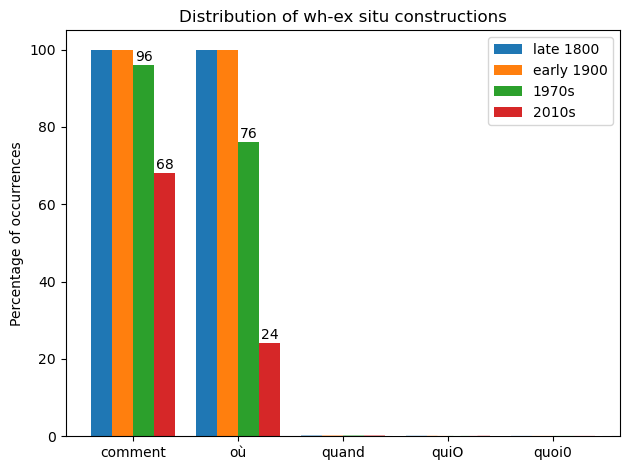
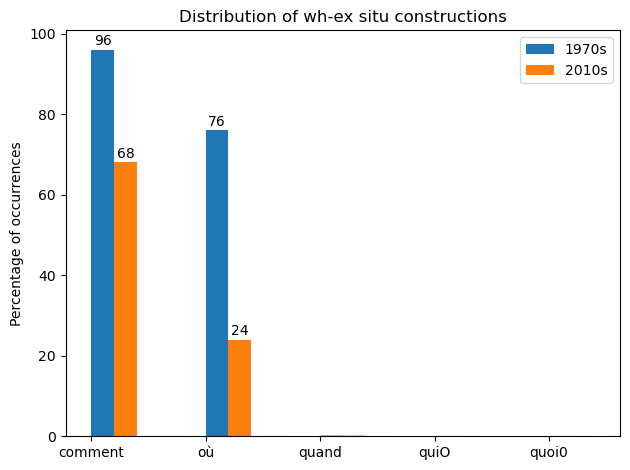
Uploads images

diff --git a/slides/résultats.tex b/slides/résultats.tex
@@ -11,7 +11,30 @@
 \begin{document}
 %%=-=-=-=-=-=-=-=-=-=-=-=-=-=-=-=-=-=-=-=-=-=-=-=-=-=-=-=-=-=-=-=-=-=-=-=-=-=-=-=
 %   FRAME START   -=-=-=-=-=-=-=-=-=-=-=-=-=-=-=-=-=-=-=-=-=-=-=-=-=-=-=-=-=-=-=
-\begin{frame}[c]{The data}
+\begin{frame}[c]{Overview of the data}
+
+\textbf{\textsc{our raw data}}
+
+\begin{table}[H]
+    \centering
+    \small
+    \begin{adjustbox}
+        \begin{tabular}{r|r|r}
+        % \hline
+        ESLO 1  & ESLO 2 & total \\
+        \hline
+        2376 & 1261 & 3637 \\
+        %\hline
+        \hline
+        \end{tabular}
+    \end{adjustbox}
+\caption{\label{tab:samp3}Raw data (ex situ and in situ combined).}
+\end{table}
+  
+\end{frame}
+%   FRAME END   --==-=-=-=-=-=-=-=-=-=-=-=-=-=-=-=-=-=-=-=-=-=-=-=-=-=-=-=-=-=-=
+%   FRAME START   -=-=-=-=-=-=-=-=-=-=-=-=-=-=-=-=-=-=-=-=-=-=-=-=-=-=-=-=-=-=-=
+\begin{frame}[c]{Overview of the data}
 
 \textbf{\textsc{our raw data}}
 
@@ -37,7 +60,7 @@
 \end{frame}
 %   FRAME END   --==-=-=-=-=-=-=-=-=-=-=-=-=-=-=-=-=-=-=-=-=-=-=-=-=-=-=-=-=-=-=
 %   FRAME START   -=-=-=-=-=-=-=-=-=-=-=-=-=-=-=-=-=-=-=-=-=-=-=-=-=-=-=-=-=-=-=
-\begin{frame}[c]{The data}
+\begin{frame}[c]{Overview of the data}
 
 \textbf{\textsc{our raw data}}
 
@@ -63,7 +86,7 @@
 \end{frame}
 %   FRAME END   --==-=-=-=-=-=-=-=-=-=-=-=-=-=-=-=-=-=-=-=-=-=-=-=-=-=-=-=-=-=-=
 %   FRAME START   -=-=-=-=-=-=-=-=-=-=-=-=-=-=-=-=-=-=-=-=-=-=-=-=-=-=-=-=-=-=-=
-\begin{frame}[c]{The data}
+\begin{frame}[c]{Overview of the data}
 
 \textbf{\textsc{our raw data}}
 
@@ -124,16 +147,139 @@
   
 \end{frame}
 %   FRAME END   --==-=-=-=-=-=-=-=-=-=-=-=-=-=-=-=-=-=-=-=-=-=-=-=-=-=-=-=-=-=-=
+
 %   FRAME START   -=-=-=-=-=-=-=-=-=-=-=-=-=-=-=-=-=-=-=-=-=-=-=-=-=-=-=-=-=-=-=
-\begin{frame}[c]{French wh-interrogatives from 1870 to 2014}
+\begin{frame}[c]{The data: wh-in situ}
 
     \begin{center}
-        \textbf{How have French interrogatives evolved between 1970s and 2014?}
+       \includegraphics[width=10cm, height=6cm]{images/insituraw2.png} 
     \end{center}
   
 \end{frame}
 %   FRAME END   --==-=-=-=-=-=-=-=-=-=-=-=-=-=-=-=-=-=-=-=-=-=-=-=-=-=-=-=-=-=-=
+
 %   FRAME START   -=-=-=-=-=-=-=-=-=-=-=-=-=-=-=-=-=-=-=-=-=-=-=-=-=-=-=-=-=-=-=
+\begin{frame}{The classification}
+
+    \transboxin<1>
+    \transglitter<2>
+    \transwipe<3>
+    \textbf{\textsc{our classification}} \pause
+    \begin{itemize}
+        \item[\ding{227}] the \% of in situ questions > 1 (Larrivée's threshold for categorial values)\\ \pause $\longrightarrow$ we expected wh-in situ to \textbf{not} be categorical \pause (not just explicitly-activated) \pause
+        \item[\ding{227}] we determined three activation levels (using both the script and the audio file): \pause
+        \item[\ding{227}] explicitly activated ($=$ prepositional content repeated in the question) \pause
+        \item[\ding{227}] non-activated ($=$ 'discourse new') \pause
+        \item[\ding{227}] \textbf{inferable} \pause (Garassino 2021)
+            
+    \end{itemize}
+
+\end{frame}
+%   FRAME END   --==-=-=-=-=-=-=-=-=-=-=-=-=-=-=-=-=-=-=-=-=-=-=-=-=-=-=-=-=-=-=
+%   FRAME START   -=-=-=-=-=-=-=-=-=-=-=-=-=-=-=-=-=-=-=-=-=-=-=-=-=-=-=-=-=-=-=
+\begin{frame}{The classification}
+
+    \textbf{\textsc{our classification}}
+    \begin{itemize}
+        \item[\ding{227}] the \% of in situ questions > 1 (Larrivée's threshold for categorial values)\\ $\longrightarrow$ we expected wh-in situ to \textbf{not} be categorical (not just explicitly-activated)
+        \item[\ding{227}] we determined three activation levels (using both the script and the audio file):
+        \item[\ding{227}] explicitly activated ($=$ prepositional content repeated in the question)
+        \item[\ding{227}] \underline{non-activated} ($=$ 'discourse new')
+        \item[\ding{227}] \textbf{inferable} (Garassino 2021)
+            
+    \end{itemize}
+
+\end{frame}
+%   FRAME END   --==-=-=-=-=-=-=-=-=-=-=-=-=-=-=-=-=-=-=-=-=-=-=-=-=-=-=-=-=-=-=
+%   FRAME START   -=-=-=-=-=-=-=-=-=-=-=-=-=-=-=-=-=-=-=-=-=-=-=-=-=-=-=-=-=-=-=
+\begin{frame}{The classification}
+
+    \textbf{\textsc{our classification}}
+    \begin{itemize}
+        \item[\ding{227}] the \% of in situ questions > 1 (Larrivée's threshold for categorial values)\\ $\longrightarrow$ we expected wh-in situ to \textbf{not} be categorical (not just explicitly-activated)
+        \item[\ding{227}] we determined three activation levels (using both the script and the audio file):
+        \item[\ding{227}] explicitly activated ($=$ prepositional content repeated in the question)
+        \item[\ding{227}] \underline{non-activated} ($=$ '\textcolor{red}{discourse new}')
+        \item[\ding{227}] \textbf{inferable} (Garassino 2021)
+            
+    \end{itemize}
+
+\end{frame}
+%   FRAME END   --==-=-=-=-=-=-=-=-=-=-=-=-=-=-=-=-=-=-=-=-=-=-=-=-=-=-=-=-=-=-=
+%   FRAME START   -=-=-=-=-=-=-=-=-=-=-=-=-=-=-=-=-=-=-=-=-=-=-=-=-=-=-=-=-=-=-=
+\begin{frame}{The classification}
+
+    \textbf{\textsc{our classification}}
+    \begin{itemize}
+        \item[\ding{227}] the \% of in situ questions > 1 (Larrivée's threshold for categorial values)\\ $\longrightarrow$ we expected wh-in situ to \textbf{not} be categorical (not just explicitly-activated)
+        \item[\ding{227}] we determined three activation levels (using both the script and the audio file):
+        \item[\ding{227}] explicitly activated ($=$ prepositional content repeated in the question) $=$ '\textcolor{blue}{discourse old}'
+        \item[\ding{227}] \underline{non-activated} ($=$ '\textcolor{red}{discourse new}')
+        \item[\ding{227}] \textbf{inferable} (Garassino 2021)
+            
+    \end{itemize}
+
+\end{frame}
+%   FRAME END   --==-=-=-=-=-=-=-=-=-=-=-=-=-=-=-=-=-=-=-=-=-=-=-=-=-=-=-=-=-=-=
+%   FRAME START   -=-=-=-=-=-=-=-=-=-=-=-=-=-=-=-=-=-=-=-=-=-=-=-=-=-=-=-=-=-=-=
+\begin{frame}{The classification}
+
+    \textbf{\textsc{our classification}}
+    \begin{itemize}
+        \item[\ding{227}] the \% of in situ questions > 1 (Larrivée's threshold for categorial values)\\ $\longrightarrow$ we expected wh-in situ to \textbf{not} be categorical (not just explicitly-activated)
+        \item[\ding{227}] we determined three activation levels (using both the script and the audio file):
+        \item[\ding{227}] explicitly activated ($=$ prepositional content repeated in the question) $=$ '\textcolor{blue}{discourse old}'
+        \item[\ding{227}] \underline{non-activated} ($=$ '\textcolor{red}{discourse new}')
+        \item[\ding{227}] \textbf{inferable} (Garassino 2021) $=$ '\textcolor{blue}{discourse old}'
+            
+    \end{itemize}
+
+\end{frame}
+%   FRAME END   --==-=-=-=-=-=-=-=-=-=-=-=-=-=-=-=-=-=-=-=-=-=-=-=-=-=-=-=-=-=-=
+%   FRAME START   -=-=-=-=-=-=-=-=-=-=-=-=-=-=-=-=-=-=-=-=-=-=-=-=-=-=-=-=-=-=-=
+\begin{frame}{The classification}
+
+    \transboxin<1>
+    \transglitter<2>
+    \transwipe<3>
+    \textbf{\textsc{inferable wh-in situ}}\\ \pause
+    The propositional content of the question is not “explicitly mentioned in the conversation, but is easily accessible thanks to our world knowledge’ (Garassino 2021: 10). \pause 
+
+    \begin{exe}
+        \ex C-ORAL-ROM, ffamcv05 (Garassino 2021 : 10, (12))
+ \pause
+        \begin{xlist}
+            \exi{NAT:} Et qu’est-ce que tu as acheté d’autre alors ? \pause
+            \exi{MAI:} Et ben on a acheté...euh la table avec les quatre chaises...sept-cent balles... \pause
+            \exi{JOS:} Pour mettre \textbf{où} ?
+        \end{xlist} 
+    \end{exe}
+
+\end{frame}
+%   FRAME END   --==-=-=-=-=-=-=-=-=-=-=-=-=-=-=-=-=-=-=-=-=-=-=-=-=-=-=-=-=-=-=
+%   FRAME START   -=-=-=-=-=-=-=-=-=-=-=-=-=-=-=-=-=-=-=-=-=-=-=-=-=-=-=-=-=-=-=
+\begin{frame}{The classification}
+
+    \transboxin<1>
+    \transglitter<2>
+    \transwipe<3>
+    \textbf{\textsc{research questions}} \pause 
+    \begin{itemize}
+        \item[\ding{227}] Q1:  \pause To what extent does the overall proportion between in-situ and ex-situ vary over time? \pause
+        \item[\ding{227}] Q2: \pause To what extent does the proportion of explicitly activated / inferable / non-activated vary over time? \pause
+        \item[\ding{227}] Q3: \pause To what extent does the proportion of Discourse Old (explicitly activated $+$ inferable) vs Discourse New (non activated) vary over time?
+    \end{itemize}
+
+\end{frame}
+%   FRAME END   --==-=-=-=-=-=-=-=-=-=-=-=-=-=-=-=-=-=-=-=-=-=-=-=-=-=-=-=-=-=-=
+%   FRAME START   -=-=-=-=-=-=-=-=-=-=-=-=-=-=-=-=-=-=-=-=-=-=-=-=-=-=-=-=-=-=-=
+\begin{frame}[c]{French wh-interrogatives from 1870 to 2014}
+
+    \begin{center}
+        \textbf{To what extent does the overall proportion between in-situ and ex-situ vary over time?}
+    \end{center}
+  
+\end{frame}
 %   FRAME END   --==-=-=-=-=-=-=-=-=-=-=-=-=-=-=-=-=-=-=-=-=-=-=-=-=-=-=-=-=-=-=
 %   FRAME START   -=-=-=-=-=-=-=-=-=-=-=-=-=-=-=-=-=-=-=-=-=-=-=-=-=-=-=-=-=-=-=
 \begin{frame}[c]{From predominant wh-ex situ to predominant wh-in situ}
@@ -143,7 +289,7 @@
     %\transwipe<3>
     \textbf{\textsc{the decline of wh-ex situ}} \pause (all types combined) \pause
     \begin{center}
-        \includegraphics[width=10cm, height=6cm]{images/exsitu.png}
+        \includegraphics[width=10cm, height=6cm]{images/exsituempty.png}
     \end{center}
   
 \end{frame}
@@ -193,7 +339,7 @@
 
     \textbf{\textsc{the decline of wh-ex situ}} (all types combined)
     \begin{center}
-        \includegraphics[width=10cm, height=6cm]{images/exsitu5.png}
+        \includegraphics[width=10cm, height=6cm]{images/exsituall.png}
     \end{center}
   
 \end{frame}
